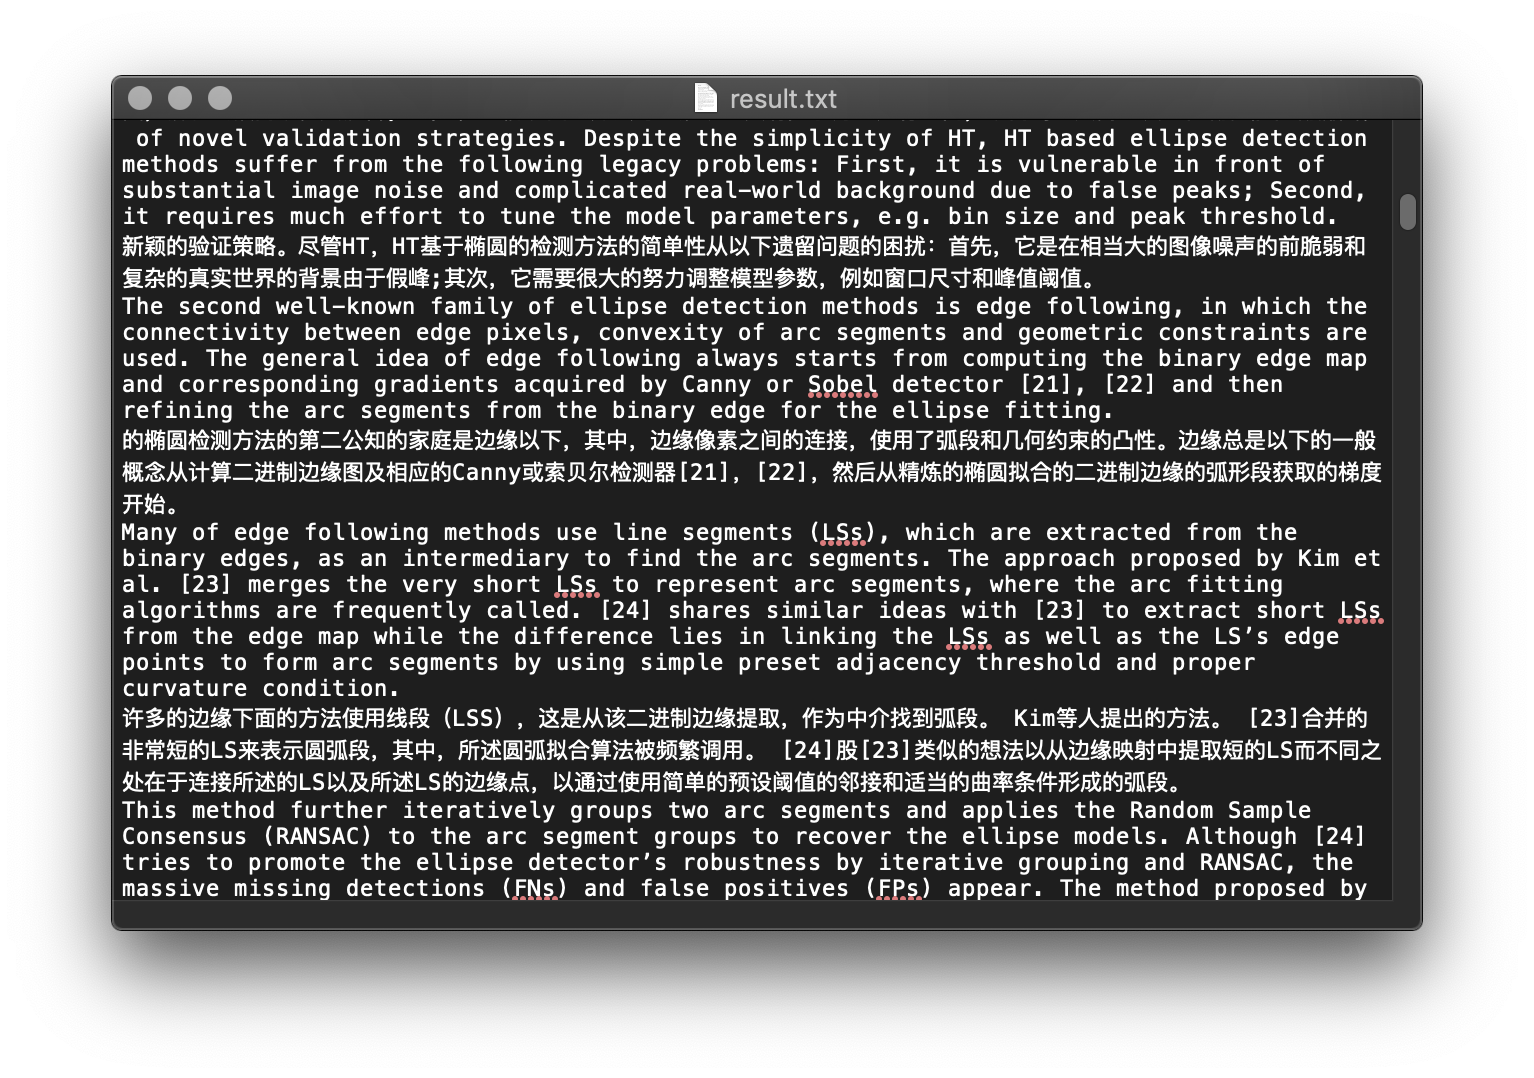
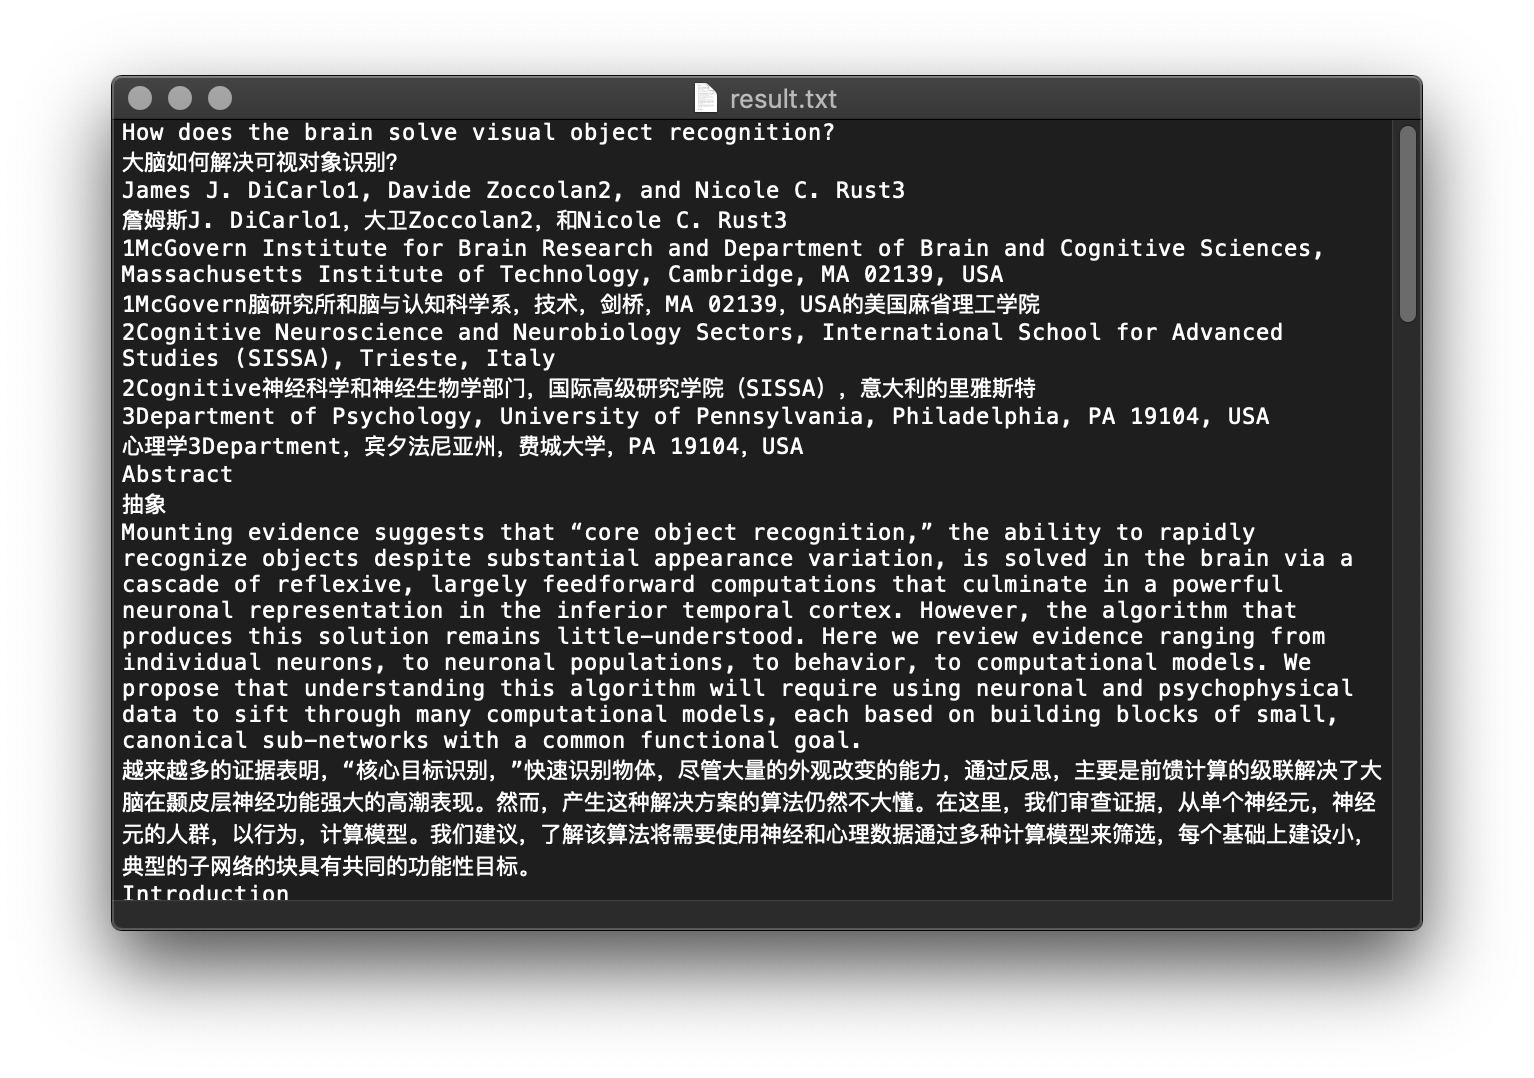
换个图片

Changed region(s): [[0.0613, 0.1224, 0.9498, 0.8571]]

diff --git a/transPDF.py b/transPDF.py
@@ -19,10 +19,8 @@ def google_translate(content):
         try:
             translator.translate("English", dest='zh-CN').text
             print("Google is fine.")
-            return "Unknown."
         except:
             print("Google is down.")
-            return "Google down."
 
 def clear_txt(txt):
     return txt.replace("-\n", "").replace("\n", " ")

diff --git a/README.md b/README.md
@@ -4,7 +4,6 @@ pdf translate en -> cn
 ## 更新
 2019.11.18
 - PDF读取部分换成了PyMuPDF，真鸡儿好用。感觉我已经天下无敌了xxx
-- 不过Google的翻译服务好像挂了，一会再试试……
 - 本来想加个界面做成阅读器的，查了一下发现好麻烦。还是算了吧，能用就行了xx
 - 还有剪切板的翻译，做了一半觉得按复制键好麻烦，还不如直接全文翻译呢，反正也有原文xx
 
@@ -32,9 +31,9 @@ python transPDF.py
 
 ## 效果
 ![image](https://raw.githubusercontent.com/2793145003/transPDF/master/img/1.png)
-所用pdf为《Arc-support Line Segments Revisited: An Efficient High-quality Ellipse Detection》
+所用pdf为《How does the brain solve visual object recognition?》
 
-PDF连接：https://arxiv.org/pdf/1810.03243.pdf
+PDF连接：https://www.ncbi.nlm.nih.gov/pmc/articles/PMC3306444/pdf/nihms352068.pdf
 
 ## 参考
 - PDF下载：https://blog.csdn.net/u012705410/article/details/47708031
